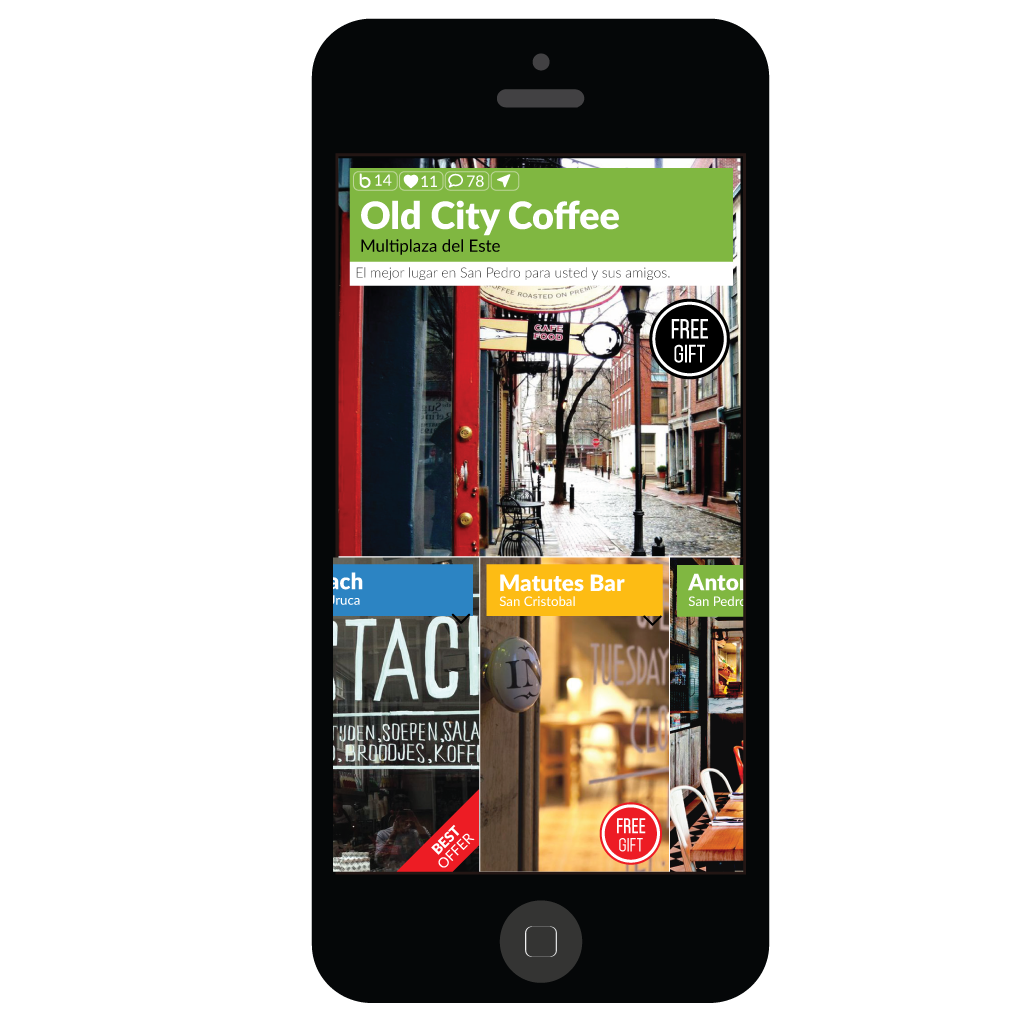
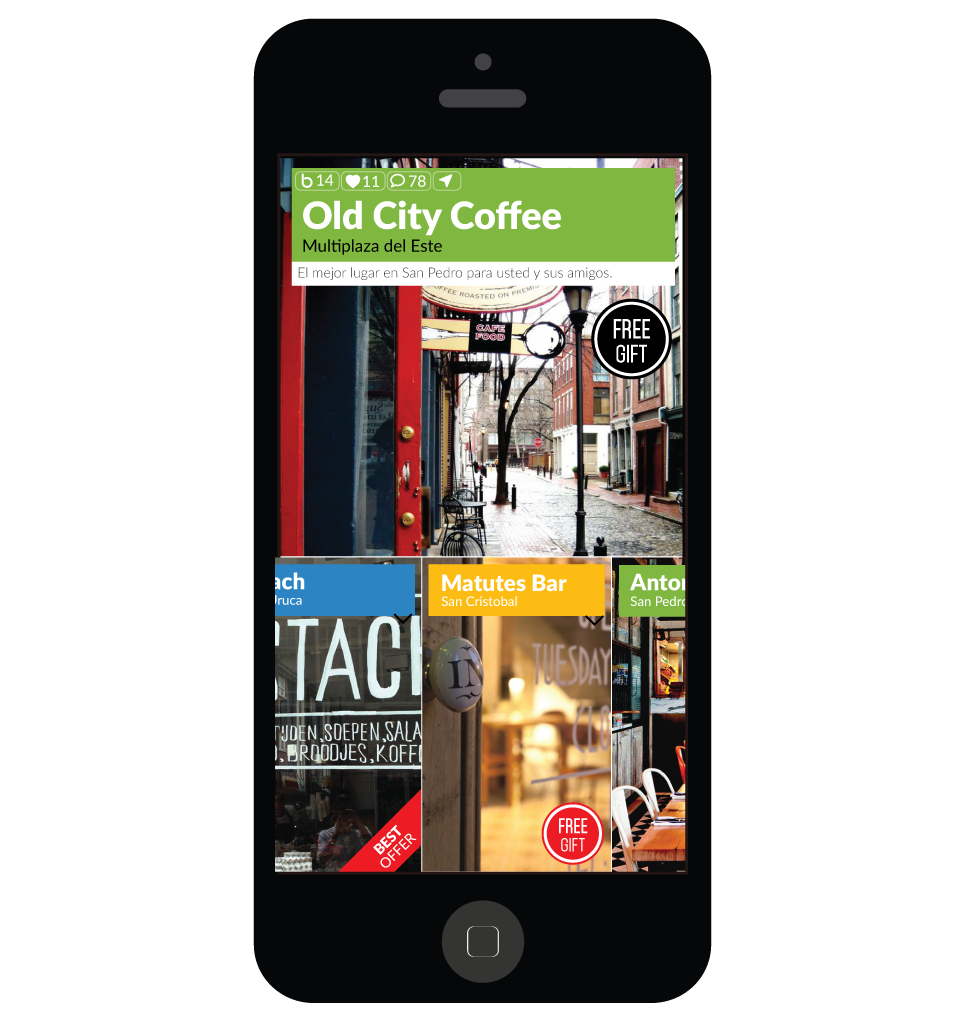
BLP-62: Spacing issues on App Mobile section also font size in slide intro

diff --git a/public/landingPage/stylesheets/responsive.css b/public/landingPage/stylesheets/responsive.css
@@ -388,11 +388,11 @@
     top:35%;
   }
   .intro-content h1 {
-    font-size: 100%;
+    font-size: 230%;
     line-height: 100%;
   }
   .intro-content h3 {
-    font-size: 90%;
+    font-size: 160%;
   }
   .slides-pagination a, .flex-control-nav a {
     padding-top: 5px;
